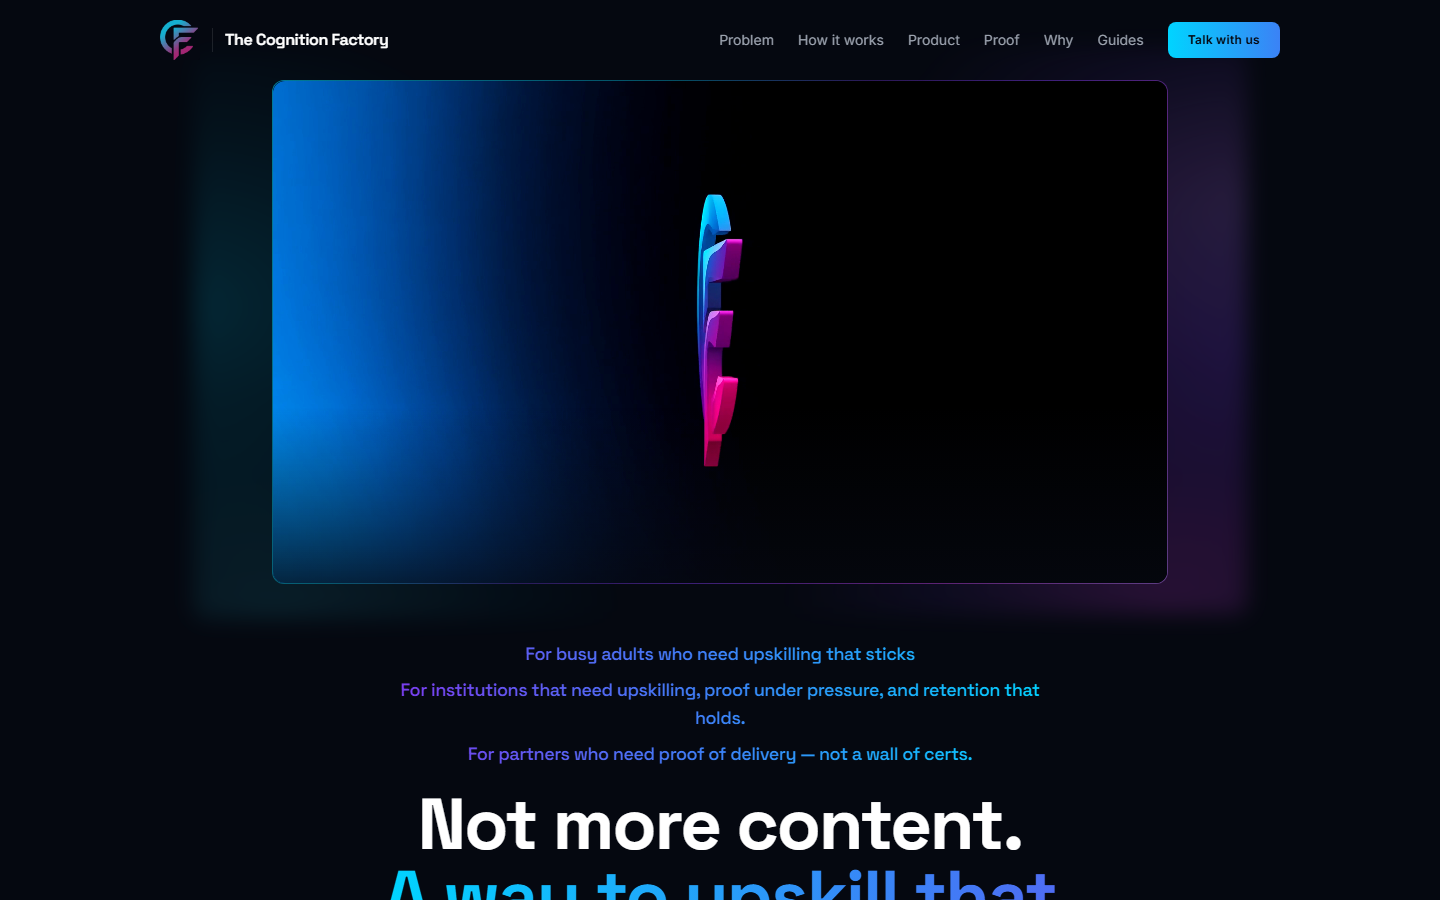
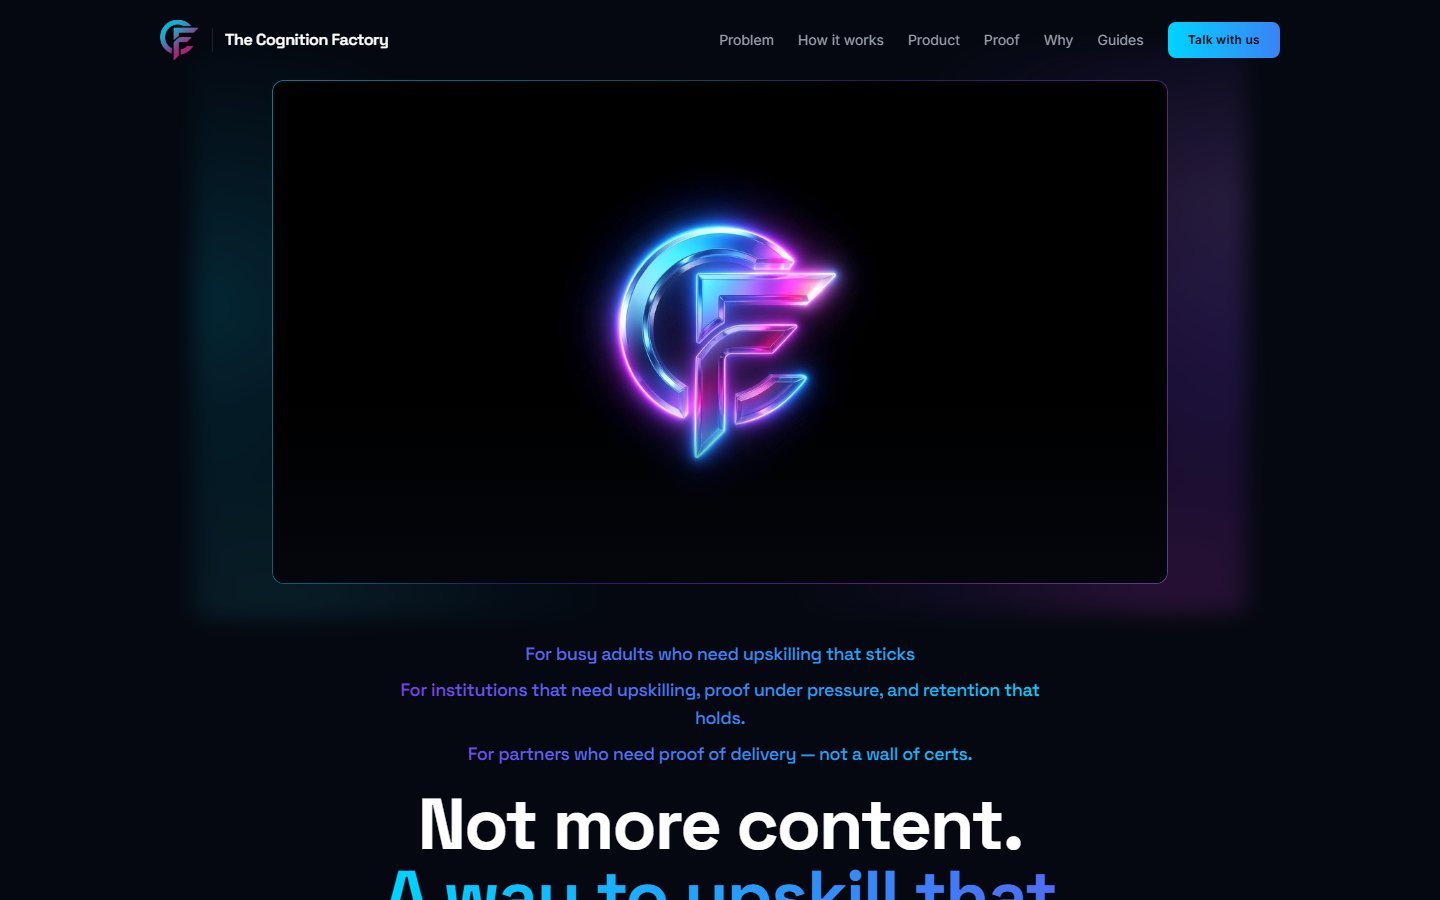
Fix TCF portfolio stills: static hero and brand door marks.
Capture the live site with motion reduced so the CF mark is complete, restore HAL-E AAE CSS logos under the proof card, and bump phone/chip assets for the hero carousel.

Changed region(s): [[0.1875, 0.0622, 0.5938, 0.6533]]

diff --git a/index.html b/index.html
@@ -638,7 +638,7 @@
                 </div>
                 <div class="browser-viewport">
                   <img
-                    src="/assets/images/portfolio/tcf/tcf-desktop-hero.png?v=2"
+                    src="/assets/images/portfolio/tcf/tcf-desktop-hero.png?v=3"
                     alt="The Cognition Factory — desktop homepage"
                     width="1440"
                     height="900"
@@ -647,10 +647,10 @@
                 </div>
               </div>
             </a>
-            <div class="work-marks work-marks--product" aria-hidden="true">
-              <img src="/assets/images/portfolio/tcf/tcf-mark-map.jpg?v=2" alt="" width="400" height="250" loading="lazy" />
-              <img src="/assets/images/portfolio/tcf/tcf-mark-practice.jpg?v=2" alt="" width="400" height="250" loading="lazy" />
-              <img src="/assets/images/portfolio/tcf/tcf-mark-save.jpg?v=2" alt="" width="400" height="250" loading="lazy" />
+            <div class="work-marks" aria-hidden="true">
+              <img src="/assets/images/portfolio/tcf/tcf-hale.jpg?v=3" alt="" width="200" height="200" loading="lazy" />
+              <img src="/assets/images/portfolio/tcf/tcf-aae.jpg?v=3" alt="" width="200" height="200" loading="lazy" />
+              <img src="/assets/images/portfolio/tcf/tcf-css.jpg?v=3" alt="" width="200" height="200" loading="lazy" />
             </div>
           </div>
 
@@ -666,9 +666,9 @@
             </p>
             <ul class="work-facts">
               <li><strong>Loop</strong> — map · practice · save place</li>
-              <li><strong>Deep learning</strong> — one idea until you can explain it without notes</li>
-              <li><strong>Practice</strong> — closed-notes runs aimed at real gaps</li>
-              <li><strong>Product</strong> — Windows household app · Android · workflow floor</li>
+              <li><strong>HAL-E</strong> — deep learning until you can explain without notes</li>
+              <li><strong>AAE</strong> — closed-notes practice aimed at real gaps</li>
+              <li><strong>CSS</strong> — save place when life interrupts</li>
               <li><strong>Audience</strong> — solo learners, teams, and partners who need proof of delivery</li>
             </ul>
             <p class="work-note">
@@ -912,8 +912,8 @@
           title: "The Cognition Factory",
           spec: "Live site · №\u00a0003",
           label: "The Cognition Factory · thecognitionfactory.com",
-          phone: "/assets/images/portfolio/tcf/tcf-phone-hero.png?v=2",
-          thumb: "/assets/images/portfolio/tcf/tcf-mark-thumb.png?v=2",
+          phone: "/assets/images/portfolio/tcf/tcf-phone-hero.png?v=3",
+          thumb: "/assets/images/portfolio/tcf/tcf-mark-thumb.png?v=3",
         },
         {
           until: 999,

diff --git a/CHANGELOG.md b/CHANGELOG.md
@@ -6,6 +6,12 @@ Public site (FFD). Newest first.
 
 ---
 
+## 2026-07-28 — TCF proof stills corrected
+
+- Desktop/phone heroes: static capture (animations off) so CF mark is fully readable — not mid-rotation
+- Proof tiles restored to **HAL-E · AAE · CSS** brand logos (not desktop-app screenshots)
+- Hero carousel phone + chip thumb use current flat matte CF mark / settled phone frame (`?v=3`)
+
 ## 2026-07-28 — FFD monogram split (hero logo + chrome mark)
 
 - **`ffd-logo.jpg`** — dimensional monogram sits with hero copy (identity still, not nav)
